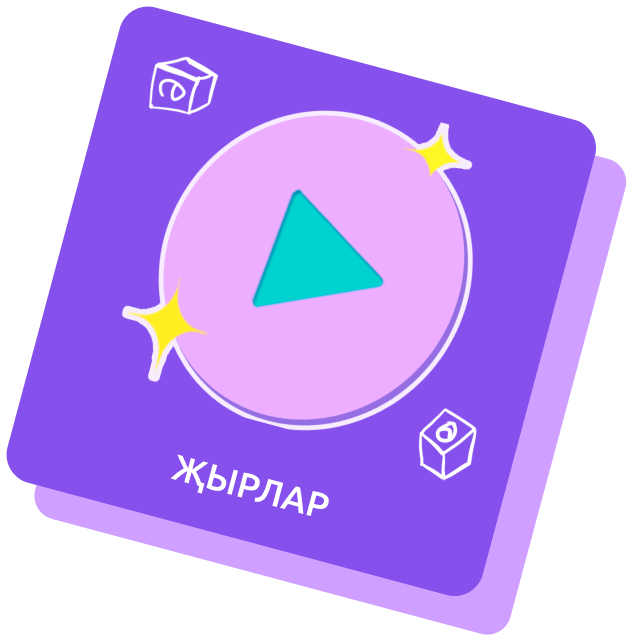
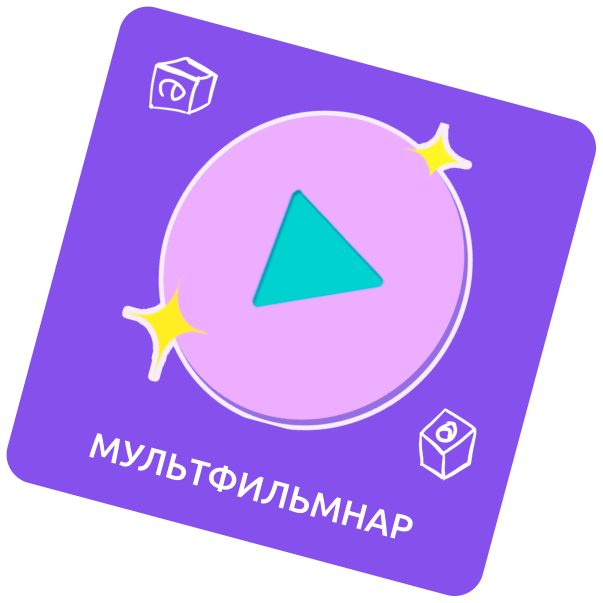
upd

diff --git a/src/Pages/Main.js b/src/Pages/Main.js
@@ -67,15 +67,17 @@ const Main = () => {
                     </div>
                     <div className={'blockBottom'}>
                         <div className={'blockBottom_block'}>
-                            <Link to='/'>
-                                <img src="./img/rightBlock.png" alt=""/>
+                            <Link to='/songs'>
+                                <img src="./img/leftBlock.png" alt=""/>
                             </Link>
                         </div>
                         <div className={'blockBottom_block'}>
                             <img src="./img/Amina.png" alt=""/>
                         </div>
                         <div className={'blockBottom_block'}>
-                            <img src="./img/leftBlock.png" alt=""/>
+                            <Link to='/multfilm'>
+                                <img src="./img/rightBlock.png" alt=""/>
+                            </Link>
                         </div>
                     </div>
                 </div>
